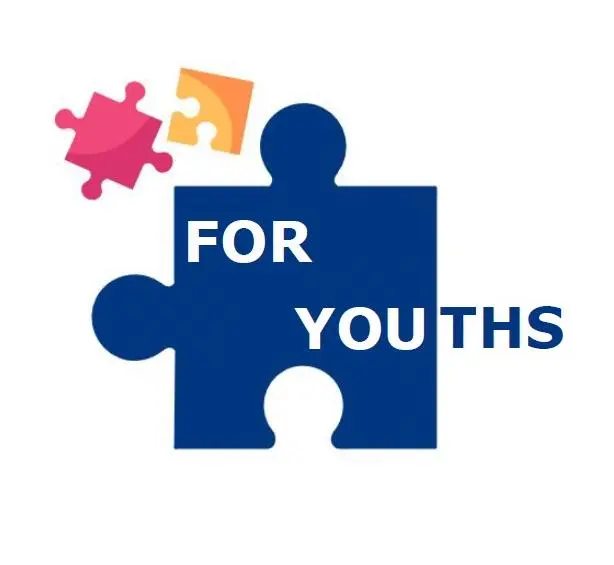
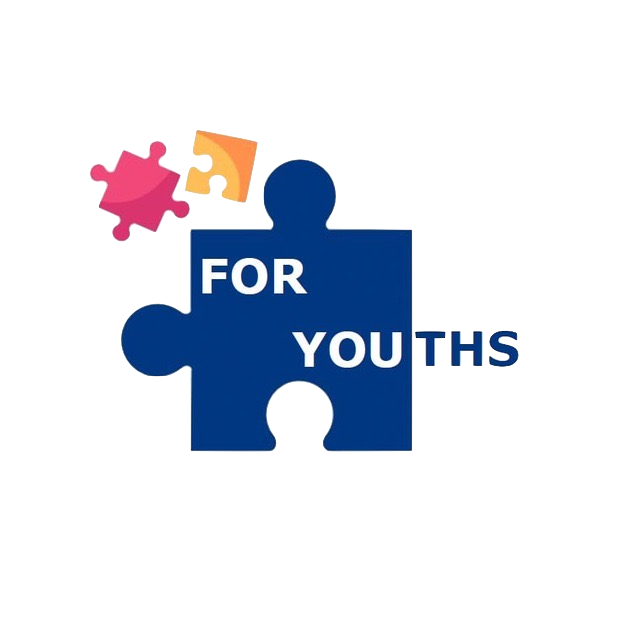
improved partner images except for SOI and YAC

Changed region(s): [[0.0928, 0.1204, 0.9283, 0.8124]]

diff --git a/app/page.js b/app/page.js
@@ -595,7 +595,7 @@ export default function Page() {
                         alt="AI Singapore"
                         width={160}
                         height={80}
-                        className="max-h-20 w-auto object-contain group-hover:scale-110 transition-all duration-500 filter-none isolation-isolate"
+                        className="max-h-24 w-auto object-contain group-hover:scale-110 transition-all duration-500 filter-none isolation-isolate"
                         style={{ filter: 'none !important', isolation: 'isolate' }}
                       />
                     </div>
@@ -614,9 +614,9 @@ export default function Page() {
                       <Image 
                         src="/partners/YCS.png" 
                         alt="Youth Cyber Singapore"
-                        width={160}
-                        height={80}
-                        className="max-h-20 w-auto object-contain group-hover:scale-110 transition-all duration-500 filter-none isolation-isolate"
+                        width={200}
+                        height={100}
+                        className="max-h-24 w-auto object-contain group-hover:scale-110 transition-all duration-500 filter-none isolation-isolate"
                         style={{ filter: 'none !important', isolation: 'isolate' }}
                       />
                     </div>
@@ -654,9 +654,9 @@ export default function Page() {
                       <Image 
                         src="/partners/NYC.png" 
                         alt="National Youth Council"
-                        width={160}
-                        height={80}
-                        className="max-h-20 w-auto object-contain group-hover:scale-110 transition-all duration-500 filter-none isolation-isolate"
+                        width={240}
+                        height={120}
+                        className="max-h-32 w-auto object-contain group-hover:scale-110 transition-all duration-500 filter-none isolation-isolate"
                         style={{ filter: 'none !important', isolation: 'isolate' }}
                       />
                     </div>
@@ -674,9 +674,9 @@ export default function Page() {
                       <Image 
                         src="/partners/FORYOUTHS.png" 
                         alt="For Youths"
-                        width={160}
-                        height={80}
-                        className="max-h-20 w-auto object-contain group-hover:scale-110 transition-all duration-500 filter-none isolation-isolate"
+                        width={320}
+                        height={160}
+                        className="max-h-40 w-auto object-contain group-hover:scale-110 transition-all duration-500 filter-none isolation-isolate"
                         style={{ filter: 'none !important', isolation: 'isolate' }}
                       />
                     </div>
@@ -734,9 +734,9 @@ export default function Page() {
                       <Image 
                         src="/partners/SPAI.png" 
                         alt="SP AI"
-                        width={160}
-                        height={80}
-                        className="max-h-20 w-auto object-contain group-hover:scale-110 transition-all duration-500 filter-none isolation-isolate"
+                        width={320}
+                        height={160}
+                        className="max-h-40 w-auto object-contain group-hover:scale-110 transition-all duration-500 filter-none isolation-isolate"
                         style={{ filter: 'none !important', isolation: 'isolate' }}
                       />
                     </div>
